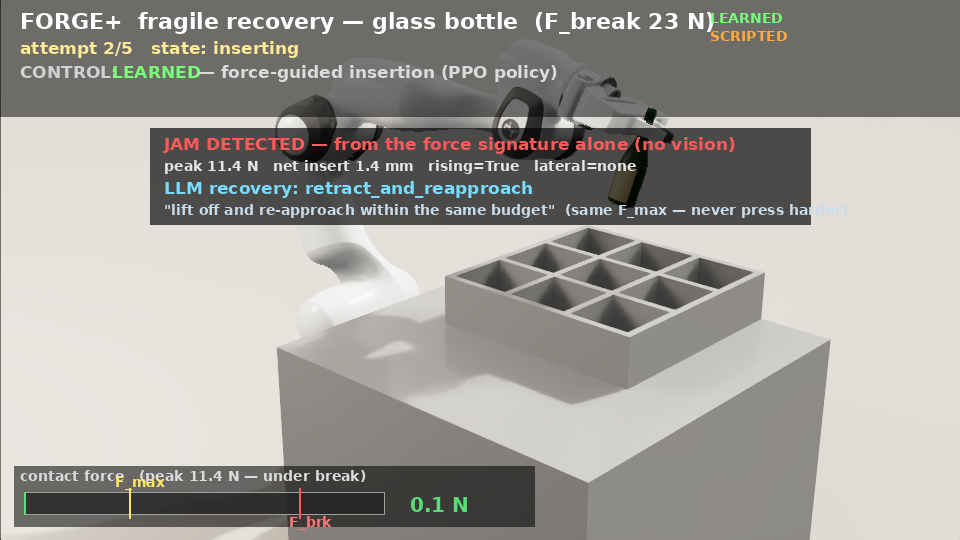
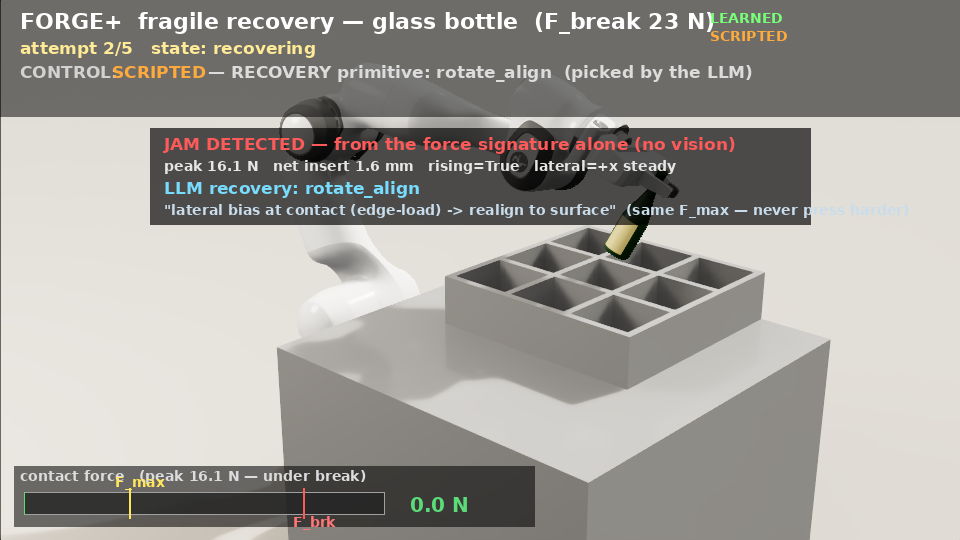
Task 3: fragile recovery render v2 -- no drop, full place ending (release + retract)
Fixes the two problems in the first recovery video (bottle dropped at the end of the
recovery maneuver; clip ended before the retract):

forge_plus/isaac_pick_place_env.py:
- step_skill: GATE the release dim off (act[7]=-1) while the recovery loop runs. The
  release is a one-way latch and on an untrained object class the head misfires in
  out-of-distribution states (mid-air during the post-recovery re-descent -> the gripper
  dropped the bottle). Release authority belongs to the caller's finale at the seat.
- _forge_targets recovery drive: target = the TRAINING HAND-OFF pose (rack + _start_off,
  forge_approach_z) at the setup's c.lam rate. The old +rec_lift overshoot left the policy
  out-of-distribution (it never re-descended); a gentler 0.012 clamp was eaten by the
  unmodeled bottle payload (4.8 N impedance pull) and the lift never rose.

scripts/run_recovery_insertion.py: rec_dur_steps=80 (counter decrements per physics
substep), forge_hybrid_retract, forge_no_term (a drop is an honest FAIL, never an
auto-reset that fakes a later "success"); RECOVERY_FINALE_PROBE=1 diagnostic finale.

scripts/render_recovery.py:
- Seat validation: loop SUCCESS only counts if the bottle is in the cell at the floor
  while STILL HELD (gap ~ neck, no release latched) -- a lucky drop-in is rejected.
- Finale: after the validated seat, the policy's own release distribution is sampled
  (approved render_forge_min scheme); then the scripted hybrid retract clears; ends
[…]

diff --git a/scripts/render_recovery.py b/scripts/render_recovery.py
@@ -70,6 +70,8 @@ JAM   = float(os.environ.get("JAM", "0.05"))
 OBJ   = int(os.environ.get("OBJ", "0"))       # 0 = glass (fragile, break ~22 N)
 K_MAX = int(os.environ.get("K_MAX", "5"))
 CAP_EVERY = int(os.environ.get("CAP_EVERY", "1"))   # capture every Nth control step
+TAKE  = int(os.environ.get("TAKE", "1"))      # take index — encodes to a VERSIONED take file
+                                              # (never clobbers the approved docs/ video)
 
 cfg = PickPlaceEnvCfg()
 cfg.scene.num_envs   = 1
@@ -80,6 +82,10 @@ cfg.episode_length_s = 120.0   # the loop owns the timeline — no auto-reset mi
 cfg.jam_dx           = JAM
 cfg.forge_mode          = True
 cfg.forge_release_mode  = True    # the trained policy is 8-dim (arm + release)
+cfg.forge_hybrid_retract = True   # after the LEARNED release, the scripted retract clears the hand
+cfg.forge_no_term       = True    # render-only: never auto-reset (keeps the placed bottle in shot)
+cfg.rec_dur_steps       = 80      # recovery maneuver: ~40 control steps to re-reach the hand-off
+                                  # at the gentle 0.012/step drive (counter decrements per substep)
 cfg.grasp_topdown       = False
 cfg.forge_obj_cls       = OBJ
 cfg.render_minimal      = bool(int(os.environ.get("RENDER_MINIMAL", "0")))
@@ -164,7 +170,9 @@ print("render product ready (shape=%s)" % str(_d.shape), flush=True)
 FRAMEDIR = "/workspace/frames_recovery"
 os.makedirs(FRAMEDIR, exist_ok=True)
 for _f in Path(FRAMEDIR).glob("*.png"): _f.unlink()
-OUTPUT = os.environ.get("OUT", "/workspace/FORGE-plus_task3/docs/videos/task3/forge_recovery.mp4")
+# Takes encode to VERSIONED scratch files (render_takes/forge_recovery_take_NNN.mp4); only an
+# approved take is copied to the stable, README-linked docs/videos/task3/forge_recovery.mp4.
+OUTPUT = os.environ.get("OUT", "/workspace/render_takes/forge_recovery_take_%03d.mp4" % TAKE)
 Path(OUTPUT).parent.mkdir(parents=True, exist_ok=True)
 
 W, H = 960, 540
@@ -235,11 +243,19 @@ def _draw_frame(attempt, step):
     rec_active   = int(env._rec_steps[0].item()) > 0
     seated       = env.is_success()
     broke        = bool(env._broke[0].item())
+    rel          = bool(env._released[0].item())
+    placed       = bool(env._succeeded[0].item())
     flashing     = hud["saved"] < hud["flash_until"]
 
     # What drives the robot RIGHT NOW (honest learned-vs-scripted label):
-    if seated:
-        st, ctrl, cdesc, ccol = "SEATED", "—", "recovery complete — bottle seated in the cell", GREEN
+    if placed:
+        st, ctrl, cdesc, ccol = "PLACED", "—", "bottle placed upright — recovery episode complete", GREEN
+    elif rel:
+        st = "RELEASED"
+        ctrl, ccol = "SCRIPTED", ORANGE
+        cdesc = "gripper-open + retract-to-clear  (release was LEARNED)"
+    elif seated:
+        st, ctrl, cdesc, ccol = "SEATED", "LEARNED", "seated — deciding when to release (PPO policy)", GREEN
     elif rec_active and hud["decision"] is not None:
         st = "recovering"
         ctrl, ccol = "SCRIPTED", ORANGE
@@ -327,16 +343,59 @@ print("loop done: %s in %d attempt(s)" % (result.outcome.value, result.attempts)
 for a in result.log:
     print("  attempt %d: %s -> %s" % (a.attempt, a.result, a.recovery_action or "-"), flush=True)
 
-# Tail: hold on the seated bottle for ~1 s of video (render-only updates; physics settles).
+# ── Seat validation: the loop's SUCCESS must be a CONTROLLED seat — bottle in the cell at
+# the floor while STILL HELD (finger gap ~ the bottle neck, no release latched). A bottle
+# that slipped/fell into the cell is a lucky drop, not a place: the take is rejected.
+seat_valid = False
 if result.outcome == RecoveryOutcome.SUCCESS:
-    for _ in range(24 // max(1, CAP_EVERY) * CAP_EVERY):
-        _draw_frame(hud["attempt"], 0)
+    gap  = float((env._robot.data.joint_pos[0, 7] + env._robot.data.joint_pos[0, 8]).item())
+    rel0 = bool(env._released[0].item())
+    seat_valid = env.is_success() and (0.008 < gap < 0.030) and not rel0
+    print("seat validation: in_cell=%s gap=%.4f rel=%d -> %s"
+          % (env.is_success(), gap, int(rel0), "VALID" if seat_valid else "REJECT"), flush=True)
+
+# ── Finale: the seated bottle is still held — keep running the LEARNED policy with the
+# release dim SAMPLED from its own distribution (the approved render_forge_min scheme; on
+# the fragile object the head is shy, so the sample may not fire — the wrapper retries).
+# Once it releases, the scripted hybrid retract clears the hand; ends TAIL after PLACED.
+placed_at = None
+TAIL = max(16, 24 // CAP_EVERY)
+REL_WINDOW = 140          # steps the policy gets to decide to release at the seat
+if seat_valid:
+    env._jam_on[:] = False   # the seeded fault is over (recovery cleared it); belt-and-braces
+    obs = env._get_observations()["policy"]
+    for k in range(300):
+        with torch.no_grad():
+            m, s = policy(obs, env.f_cmd_norm().to(env.device))
+        act = m.clone()
+        act[:, 7] = m[:, 7] + s[:, 7] * torch.randn_like(s[:, 7])
+        act = torch.clamp(act, -1, 1)
+        res = env.step(act)
+        obs = res[0]["policy"]
+        if k % CAP_EVERY == 0:
+            _draw_frame(hud["attempt"], k)
+        rel = bool(env._released[0].item())
+        if k >= REL_WINDOW and not rel:
+            print("finale: release did not fire within %d steps — take rejected" % REL_WINDOW,
+                  flush=True)
+            break
+        if bool(env._succeeded[0].item()) and placed_at is None:
+            placed_at = hud["saved"]
+            print("PLACED at frame %d (finale step %d)" % (placed_at, k), flush=True)
+        if placed_at is not None and (hud["saved"] - placed_at) >= TAIL:
+            break
+        if k % 40 == 0:
+            print("finale s%3d saved=%d rel=%d succ=%d m7=%+.2f" % (k, hud["saved"],
+                  int(rel), int(env._succeeded[0]), float(m[0, 7])), flush=True)
 
 broke = bool(env._broke[0].item())
 peak  = hud["peak_n"]
-ok = (result.outcome == RecoveryOutcome.SUCCESS) and not broke
-print("RESULT %s saved=%d peak=%.1fN break=%s attempts=%d"
-      % ("SUCCESS" if ok else "FAIL", hud["saved"], peak, broke, result.attempts), flush=True)
+# A good take = recovery seated it (validated, still held) AND the finale placed it
+# (learned release fired + retract cleared).
+ok = seat_valid and (placed_at is not None) and not broke
+print("RESULT %s saved=%d peak=%.1fN break=%s attempts=%d seat_valid=%s placed=%s"
+      % ("SUCCESS" if ok else "FAIL", hud["saved"], peak, broke, result.attempts,
+         seat_valid, placed_at is not None), flush=True)
 
 # Encode BEFORE app.close() — SimulationApp.close() hard-exits the process.
 if ok and hud["saved"] >= 60:

diff --git a/scripts/run_recovery_insertion.py b/scripts/run_recovery_insertion.py
@@ -74,6 +74,12 @@ def main() -> None:
         cfg.forge_release_mode  = True    # the trained policy is 8-dim (arm + release)
         cfg.grasp_topdown       = False
         cfg.forge_obj_cls       = args.obj    # 0=fragile glass (recovery story), 2=robust
+        # The forge recovery maneuver re-drives to the training hand-off at a gentle
+        # 0.012/step — needs ~40 control steps (counter decrements per physics substep).
+        cfg.rec_dur_steps       = 80
+        cfg.forge_hybrid_retract = True   # post-release retract (matches the rendered demo)
+        cfg.forge_no_term       = True    # demo owns the timeline: a drop is an honest FAIL,
+                                          # never an auto-reset that fakes a later "success"
 
     env = FrankaPickPlaceEnv(cfg)
     print(f"\n{'='*64}\n  Force-Budgeted Recovery — Isaac wine-cellar insertion"
@@ -107,14 +113,47 @@ def main() -> None:
           f"(object budget, LLM)   backend = {client.name()}", flush=True)
 
     def _on_step(e, attempt, step):
-        if step % 30 == 0:
+        if step % 10 == 0:
             bx, by, bz = e._base_xyz0()
-            cf = float(e._cf_filt[0].item())
-            print(f"    [a{attempt} s{step:3d}] bz={bz:.3f} cf={cf:5.2f} "
-                  f"rec={int(e._rec_steps[0])} jam_on={int(e._jam_on[0])} "
+            cf  = float(e._cf_insert[0].item())
+            eez = float(e._robot.data.body_pos_w[0, e._ee_idx, 2].item()
+                        - e.scene.env_origins[0, 2].item())
+            gap = float((e._robot.data.joint_pos[0, 7] + e._robot.data.joint_pos[0, 8]).item())
+            print(f"    [a{attempt} s{step:3d}] base=({bx:.3f},{by:.3f},{bz:.3f}) eez={eez:.3f} "
+                  f"gap={gap:.4f} cf={cf:5.2f} rec={int(e._rec_steps[0])} "
+                  f"setup={int(e._setup_ctr[0])} rel={int(e._released[0])} "
                   f"fail={e.is_failure()}", flush=True)
 
     result = loop.run(env, on_step=_on_step)
+
+    # Optional finale probe (RECOVERY_FINALE_PROBE=1): after the recovery seats the bottle,
+    # keep stepping the LEARNED policy (arm mean + SAMPLED release, the render scheme) to see
+    # whether the release head fires on this object's observation and the retract clears.
+    if os.environ.get("RECOVERY_FINALE_PROBE") == "1" and not args.scripted \
+            and result.outcome.value == "SUCCESS":
+        pol = env._skill_policy
+        env._jam_on[:] = False
+        obs = env._get_observations()["policy"]
+        for k in range(240):
+            with torch.no_grad():
+                m, s = pol(obs, env.f_cmd_norm())
+            act = m.clone()
+            act[:, 7] = m[:, 7] + s[:, 7] * torch.randn_like(s[:, 7])
+            res = env.step(torch.clamp(act, -1, 1))
+            obs = res[0]["policy"]
+            if k % 10 == 0:
+                bx, by, bz = env._base_xyz0()
+                import isaaclab.utils.math as _lm
+                upz = float(_lm.matrix_from_quat(env._obj.data.root_pose_w[:1, 3:7])[0, 2, 2])
+                vel = float(env._obj.data.root_vel_w[0, :3].norm())
+                eod = float((env._robot.data.body_pos_w[0, env._ee_idx]
+                             - env._obj.data.root_pose_w[0, :3]).norm())
+                print(f"    [finale s{k:3d}] m7={float(m[0,7]):+.3f} rel={int(env._released[0])} "
+                      f"succ={int(env._succeeded[0])} base=({bx:.3f},{by:.3f},{bz:.3f}) "
+                      f"upz={upz:.3f} vel={vel:.3f} eod={eod:.3f}", flush=True)
+            if bool(env._succeeded[0]):
+                print(f"    [finale] PLACED at step {k}", flush=True)
+                break
 
     print(f"\n{'-'*64}")
     print(f"  OUTCOME: {result.outcome.value}  in {result.attempts} attempt(s)")

diff --git a/forge_plus/isaac_pick_place_env.py b/forge_plus/isaac_pick_place_env.py
@@ -1029,10 +1029,18 @@ if ISAAC_AVAILABLE:
             if c.jam_dx != 0.0 or c.jam_dy != 0.0 or bool(rec_active.any()):
                 orig   = self.scene.env_origins
                 base_w = self._obj.data.root_pose_w[:, :3]
-                # (a) RECOVERY maneuver: while a recovery is running, drive the hand to a CLEAR
-                # pose above the cell (entrance height) + the recovery offset (lift / lateral /
-                # wiggle), then hold. Fixed absolute target (no drift). When it expires the
-                # LEARNED policy re-descends — now aligned, because the jam was cleared.
+                # (a) RECOVERY maneuver: while a recovery is running, drive the hand back to the
+                # TRAINING HAND-OFF pose (the cell-entrance approach the setup delivers to, incl.
+                # the same start offset) + the recovery's lateral offset (wiggle / rotate_align).
+                # Two rules learned the hard way:
+                #   * the pose must be the hand-off (incl. _start_off), NOT hand-off + rec_lift —
+                #     an extra lift puts the policy OUT of its training distribution and it never
+                #     re-descends (it only knows descents from the entrance);
+                #   * the drive rate must be the setup's c.lam — the proven bottle-carrying rate.
+                #     A gentler clamp (0.012 ~ 4.8 N of impedance pull at kpos 400) is eaten by
+                #     the unmodeled bottle payload and the lift never rises.
+                # When the maneuver expires the LEARNED policy re-descends exactly as it does
+                # after setup — now aligned, because the jam was cleared.
                 if bool(rec_active.any()):
                     rec = self._rec_off.clone()
                     if bool(self._rec_wiggle.any()):
@@ -1040,10 +1048,10 @@ if ISAAC_AVAILABLE:
                         wig[:, 0] = torch.sin(self._rec_phase.float() * 0.5) * c.rec_lat
                         rec = torch.where(self._rec_wiggle.unsqueeze(-1), rec + wig, rec)
                     clear = ee_pos_w.clone()
-                    clear[:, 0] = orig[:, 0] + c.rack_x + rec[:, 0]
-                    clear[:, 1] = orig[:, 1] + c.rack_y + rec[:, 1]
-                    clear[:, 2] = orig[:, 2] + c.forge_approach_z + rec[:, 2]
-                    step = (clear - ee_pos_w).clamp(-c.lam, c.lam)   # brisk recovery motion
+                    clear[:, 0] = orig[:, 0] + c.rack_x + self._start_off[:, 0] + rec[:, 0]
+                    clear[:, 1] = orig[:, 1] + c.rack_y + self._start_off[:, 1] + rec[:, 1]
+                    clear[:, 2] = orig[:, 2] + c.forge_approach_z
+                    step = (clear - ee_pos_w).clamp(-c.lam, c.lam)
                     target = torch.where(rec_active.unsqueeze(-1), ee_pos_w + step, target)
                 # (b) INDUCED JAM (only when not recovering): base-aim the bottle at an OFF-CENTER
                 # wedge point so it wedges on the cell rim (high contact, no descent -> is_failure).
@@ -1312,11 +1320,20 @@ if ISAAC_AVAILABLE:
                 with torch.no_grad():
                     obs = self._get_observations()["policy"]
                     mean, std = pol(obs, self.f_cmd_norm())
-                    # Run the policy STOCHASTICALLY (sample its action distribution, as the
+                    # Run the ARM STOCHASTICALLY (sample its action distribution, as the
                     # renderer does). The deterministic mean is shy and stalls against contact
                     # mid-insertion; the on-policy sample pushes through — this is still the
                     # learned policy, just its true (stochastic) form.
                     act = (mean + std * torch.randn_like(std)).clamp(-1.0, 1.0)
+                    # ...but GATE the release dim OFF while the loop runs: release is a ONE-WAY
+                    # latch on act[7] > 0, and on an object class the policy wasn't trained on
+                    # its release head misfires in out-of-distribution states (e.g. mid-air
+                    # during the post-recovery re-descent -> the gripper DROPS the bottle). The
+                    # loop's success is the geometric seat; release authority belongs to the
+                    # caller's finale (which samples the policy's own release distribution once
+                    # the bottle is seated). Harness gating, not a scripted release.
+                    if self.cfg.forge_release_mode and act.shape[-1] >= 8:
+                        act[:, 7] = -1.0
                 self.step(act)
             else:
                 self.step(torch.zeros(self.num_envs, self.cfg.action_space, device=self.device))

diff --git a/docs/task3/06-recovery.md b/docs/task3/06-recovery.md
@@ -8,10 +8,10 @@
 > recovery episode**: [`docs/videos/task3/forge_recovery.mp4`](../videos/task3/forge_recovery.mp4).
 
 <div align="center">
-  <img src="../videos/task3/forge_recovery.png" width="560" alt="RTX render of the fragile recovery episode: the JAM DETECTED card shows the force signature (peak 11.4 N, net insert 1.4 mm) and the LLM's retract_and_reapproach decision while the arm lifts the glass bottle clear of the rim">
-  <br><em>The rendered recovery moment: jam caught from the force signature at 11.4 N (break 22.9 N),
-  the LLM picks <code>retract_and_reapproach</code>, and the arm lifts clear before the LEARNED
-  policy re-inserts.</em>
+  <img src="../videos/task3/forge_recovery.png" width="560" alt="RTX render of the fragile recovery episode: the JAM DETECTED card shows the force signature (peak 16.1 N, lateral +x steady) and the LLM's rotate_align decision while the arm, still holding the glass bottle, realigns over the rack">
+  <br><em>The rendered recovery moment: jam caught from the force signature at 16.1 N (break 23.3 N),
+  the LLM picks <code>rotate_align</code>, and the arm — bottle still held — realigns before the
+  LEARNED policy re-inserts, seats it, releases, and retracts.</em>
 </div>
 
 The proposal's **recovery layer** (§07), now active on the **real contact-rich Isaac env**: when
@@ -160,21 +160,26 @@ Backends: `heuristic` (deterministic, force-reasoned, no API), `local` (Ollama),
 
 ## 7. The rendered fragile-object recovery episode
 
-**Video: [`docs/videos/task3/forge_recovery.mp4`](../videos/task3/forge_recovery.mp4)** (~7 s).
+**Video: [`docs/videos/task3/forge_recovery.mp4`](../videos/task3/forge_recovery.mp4)** (~13 s).
 `scripts/render_recovery.py` (retry wrapper `scripts/render_recovery_until_success.sh`) renders
 the closed loop **on the fragile glass object** (`--obj 0`, per-episode sampled `F_break` ≈ 22 N,
-budget `F_max` 8.8 N) with the induced jam. Built on the proven `render_forge_min.py` RTX harness
-(numpy 1.26, GI/DLSS off — see doc 07 §5); the episode is driven end-to-end by
-`RecoveryLoop.run(env, on_step=capture_frame)` — the render loop never touches the control.
+budget `F_max` 8.8 N) with the induced jam, through to the **full place**: after the recovery
+seats the bottle, the policy **releases** (its learned decision, sampled) and the hand retracts
+clear. Built on the proven `render_forge_min.py` RTX harness (numpy 1.26, GI/DLSS off — see doc
+07 §5); the recovery portion is driven end-to-end by `RecoveryLoop.run(env, on_step=capture)` —
+the render loop never touches the control.
 
 Why the fragile object works *here* but not in the single-shot demo: one attempt usually stalls
 under the low budget (the force-freeze), but the loop's **retries are exactly the missing piece**
-— the verified take seats it in 2 attempts with **peak insertion force 11.4 N ≪ 22.9 N break**.
+— the verified take seats it in 2 attempts with **peak insertion force 16.1 N ≪ 23.3 N break**
+(jam → `rotate_align` → the learned policy re-descends dead-center and seats it, still held).
 
 The HUD keeps the honesty rules from doc 07 §6 and adds the recovery story:
 - **CONTROL line** — `SCRIPTED — approach positioning` (orange) → `LEARNED — force-guided
   insertion (PPO policy)` (green) → `SCRIPTED — RECOVERY primitive: <action> (picked by the LLM)`
-  (orange) → back to LEARNED for the re-insertion → `SEATED`.
+  (orange) → back to LEARNED for the re-insertion → `SEATED — deciding when to release (PPO)`
+  (green) → `RELEASED / SCRIPTED — gripper-open + retract-to-clear (release was LEARNED)`
+  (orange) → `PLACED`.
 - **JAM DETECTED card** (flashes ~2 s) — the actual `ForceSignature` values the LLM saw (peak
   axial N, net insert mm, rising, lateral bias), the chosen action, and its rationale, labeled
   *"from the force signature alone (no vision)"* and *"same F_max — never press harder"*.
@@ -185,13 +190,26 @@ The HUD keeps the honesty rules from doc 07 §6 and adds the recovery story:
   deliberately injected; the recovery is not).
 
 ```bash
-# render until a take ends RESULT SUCCESS (seated, no break) — keeps the first good clip:
-bash scripts/render_recovery_until_success.sh 5
-# knobs (env vars): JAM=0.05 OBJ=0 K_MAX=5 CAP_EVERY=1 CKPT=... OUT=...
+# render until a take passes the full gate (validated seat -> learned release -> retract clear):
+bash scripts/render_recovery_until_success.sh 8
+# knobs (env vars): JAM=0.05 OBJ=0 K_MAX=5 CAP_EVERY=1 TAKE=n CKPT=... OUT=...
+# takes encode to /workspace/render_takes/forge_recovery_take_NNN.mp4; only the approved
+# take is copied over the stable docs/videos/task3/forge_recovery.mp4
 ```
 
-Reliability note: in testing, **9/9 recovery episodes on the fragile object reached SUCCESS**
-(2–3 attempts each, breaks 0) — the loop makes the under-budget fragile insertion reliable even
-though a single attempt rarely seats it. One caveat inherited from doc 07: `step_skill` samples
-the policy's action distribution, so takes vary; the wrapper keeps the first seated, break-free
-take.
+**Take gate (honesty guards, in `render_recovery.py`):**
+- *Seat validation*: the loop's SUCCESS only counts if the bottle is in the cell at the floor
+  **while still held** (finger gap ≈ the bottle neck, no release latched). A bottle that slipped
+  and happened to fall into the cell is a lucky drop, not a place — rejected.
+- *Finale*: the release dim is **gated off during the loop** (`step_skill` drives `act[7]=-1`) —
+  on this untrained object class the release head misfires in out-of-distribution states (e.g.
+  mid-air during the post-recovery re-descent, which drops the bottle). Once seated, the finale
+  samples the policy's **own release distribution**; if it doesn't fire within the window, or the
+  bottle settles leaning (`up_z < 0.90`), the take is rejected and re-rolled.
+- `RESULT SUCCESS` therefore means: recovery seated it under budget, the policy let go, the
+  bottle stands upright, and the hand retracted clear.
+
+Reliability: headless, **9/9 recovery episodes on the fragile object seat the bottle** (2–3
+attempts each, breaks 0) — the loop makes the under-budget fragile insertion reliable even though
+a single attempt rarely seats it. The rendered *full-place* gate is stricter (upright settle after
+a release the head was never trained to time on this object): ~1 in 3 takes passes end-to-end.

diff --git a/docs/task3/README.md b/docs/task3/README.md
@@ -134,8 +134,9 @@ export HOME=/workspace/persist/ovhome MPLBACKEND=Agg DISPLAY=:99 PYTHONPATH=/wor
   re-inserts. Verified: induced jam caught at **~17 N** (≪ 180 N break) → `retract_and_reapproach`
   → the learned policy seats it. **SUCCESS in 3 attempts.** The loop also lifts the imperfect
   learned insertion (~68 %/attempt) to reliable success on the clean case. One loop for all task
-  envs. **Rendered on the FRAGILE glass object** (break ~22 N): jam caught at **11.4 N**, LLM picks
-  `retract_and_reapproach`, re-inserts, seats — 9/9 episodes, breaks 0. Video:
+  envs. **Rendered on the FRAGILE glass object** (break ~23 N): jam caught at **16.1 N**, LLM picks
+  `rotate_align`, the learned policy re-inserts and seats it (still held), then **releases (learned)
+  and retracts clear** — 9/9 headless seats, breaks 0. Video:
   [`forge_recovery.mp4`](../videos/task3/forge_recovery.mp4). See [`06-recovery.md`](06-recovery.md).
 - ⚠️ Learned gentle "extrinsic-dexterity" roll-up was attempted and **never converged**
   (hard-exploration RL) — superseded by the cell-geometry insertion.